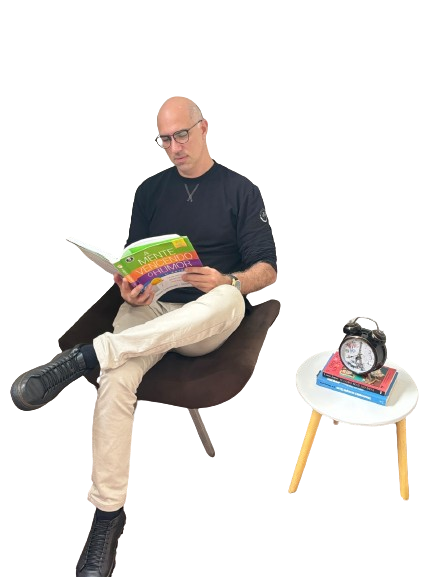
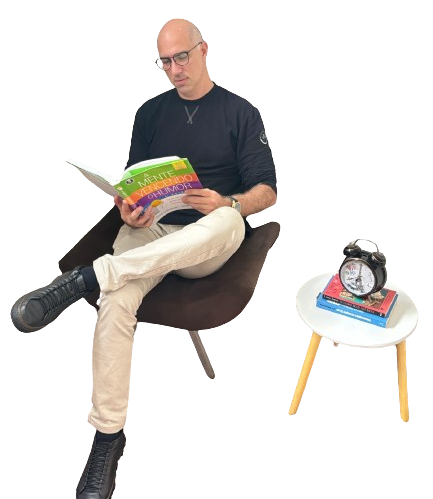
fix: images, contactPage and faqPage sizes

Changed region(s): [[0.0, 0.0301, 0.6605, 0.8116], [0.6605, 0.481, 0.9607, 0.8717], [0.1801, 0.7816, 0.3002, 0.992]]

diff --git a/app/pages/Contact/styles.ts b/app/pages/Contact/styles.ts
@@ -8,7 +8,7 @@ export const Container = styled.div`
     flex-direction: column;
     align-items: center;
     margin-top: 4%;
-    min-height: 100vh;
+    min-height: 110vh;
     min-width: 100vw;
     background-color: ${COLORS.primary};
 `
@@ -31,7 +31,7 @@ export const Content = styled.div`
 export const InfoContainer = styled.div`
     display: flex;
     flex-direction: column;
-    margin-top: 10%;
+    margin-top: 7%;
     margin-right: 12%;
     gap: 30px;
 `
@@ -52,5 +52,5 @@ export const ImageContainer = styled.div`
     flex-direction: column;
     align-items: center;
     position: relative;
-    margin-top: 3%;
+    margin-top: 4%;
 `

diff --git a/app/components/ImageWithLegend/styles.ts b/app/components/ImageWithLegend/styles.ts
@@ -11,9 +11,8 @@ export const Container = styled.div`
 export const Image = styled.img`
     display: flex;
     position: relative;
-    width: 75vh;
+    width: 100%;
     height: 100%;
-    clip-path: inset(0 0 24px 0);
 `;
 
 export const Legend = styled.div`
@@ -23,7 +22,7 @@ export const Legend = styled.div`
     position: absolute;
     width: 100%;
     height: 50px;
-    bottom: 20px;
+    bottom: 0px;
 `;
 
 export const LegendText = styled.p`

diff --git a/app/pages/Faq/styles.ts b/app/pages/Faq/styles.ts
@@ -7,7 +7,7 @@ export const Container = styled.div`
     display: flex;
     flex-direction: column;
     align-items: center;
-    min-height: 105vh;
+    min-height: 103vh;
     min-width: 100vw;
 `
 
